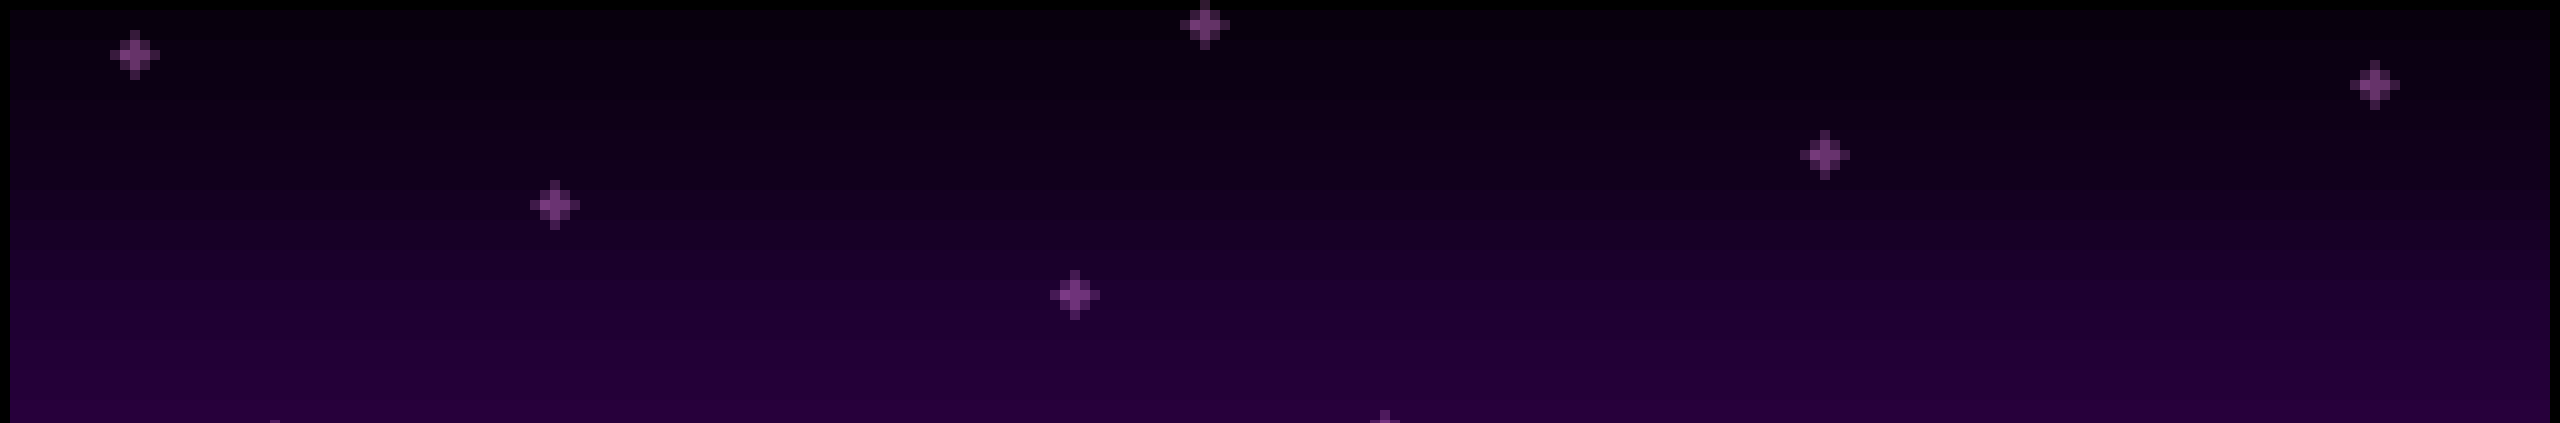
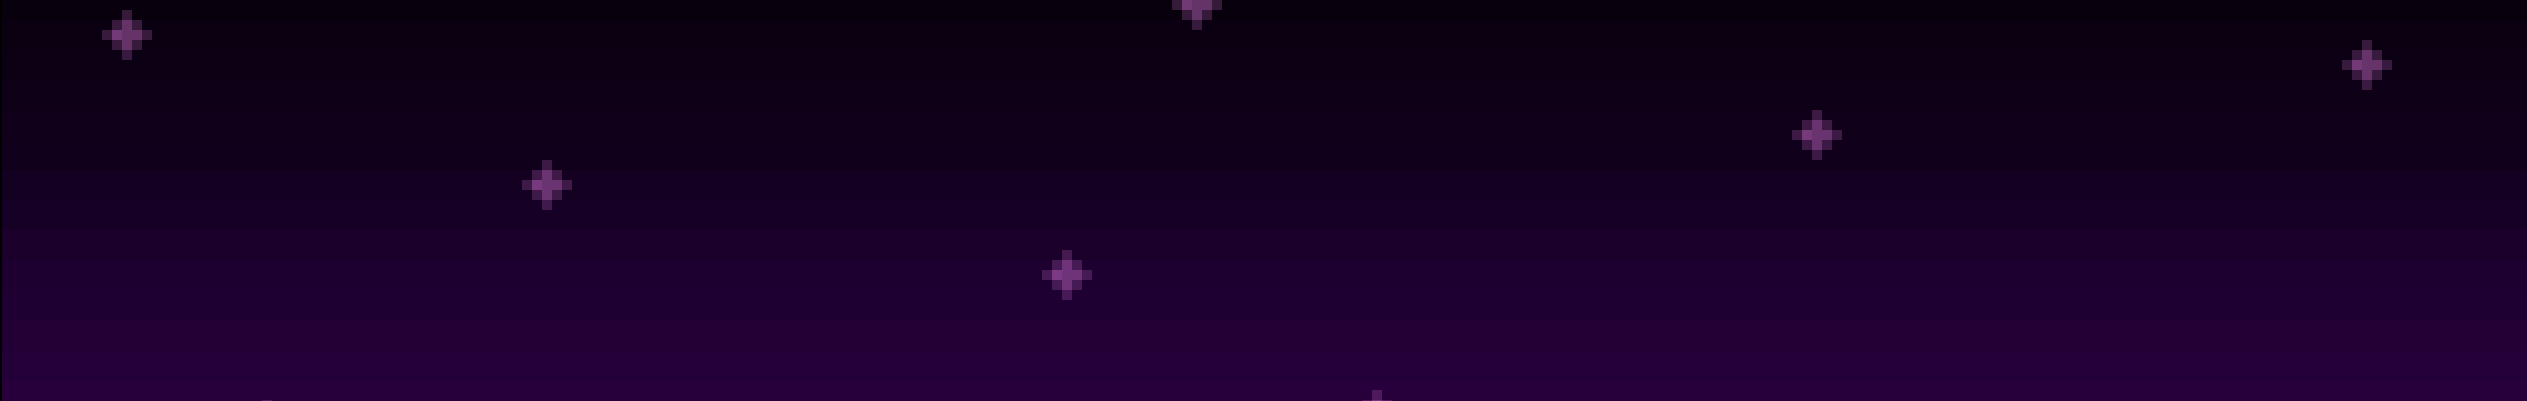
change styles

diff --git a/styles.css b/styles.css
@@ -9,12 +9,15 @@ body {
     background-color: black;
 }
 .top-main {
-    background-image: url(nature.jpg);
+    background-image: url(header-back.png);
     background-repeat: no-repeat;
-    background-attachment: fixed;
-    background-size: cover;
+    /*background-attachment: fixed;
+    background-size: cover;*/
     text-align:center;
     padding: 30px;
+}
+.navbar, .top-main {
+    color: white;
 }
 .main {
     position:relative;
@@ -44,7 +47,7 @@ body {
 .links {
     padding-left: 10px;
     text-decoration:none;
-    color: black;
+    color: white;
 }
 .headshot {
     border-radius: 50%;
